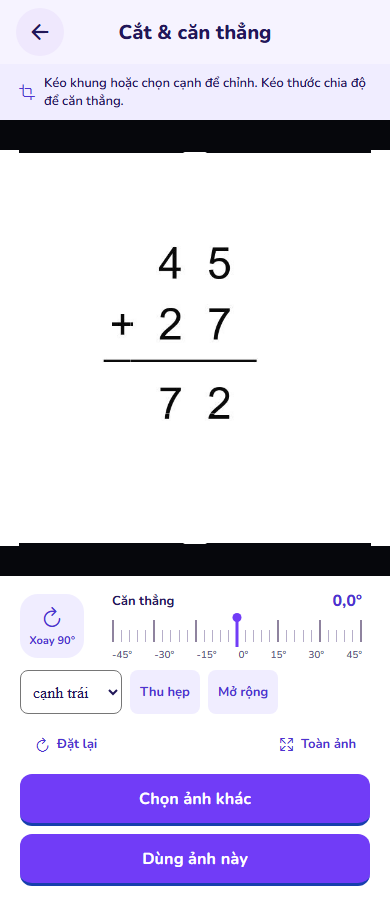
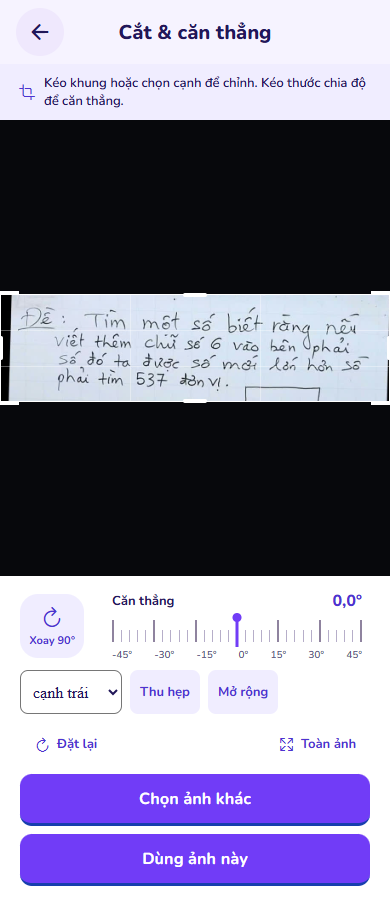
docs: replace fixture captures with real app screenshots

diff --git a/README.md b/README.md
@@ -50,7 +50,7 @@ Students can start with a photographed question, review their own handwritten so
   </tr>
 </table>
 
-The screenshots show the Vietnamese app in a phone-sized browser viewport. Minh Anh is a sample profile. See the [demo walkthrough](docs/DEMO_GUIDE.md).
+These screenshots come from the running app on a phone-sized browser viewport. Minh Anh is a demo account, and the photo step uses an owner-supplied handwritten problem. See the [demo walkthrough](docs/DEMO_GUIDE.md).
 
 ## From photo to learning
 
